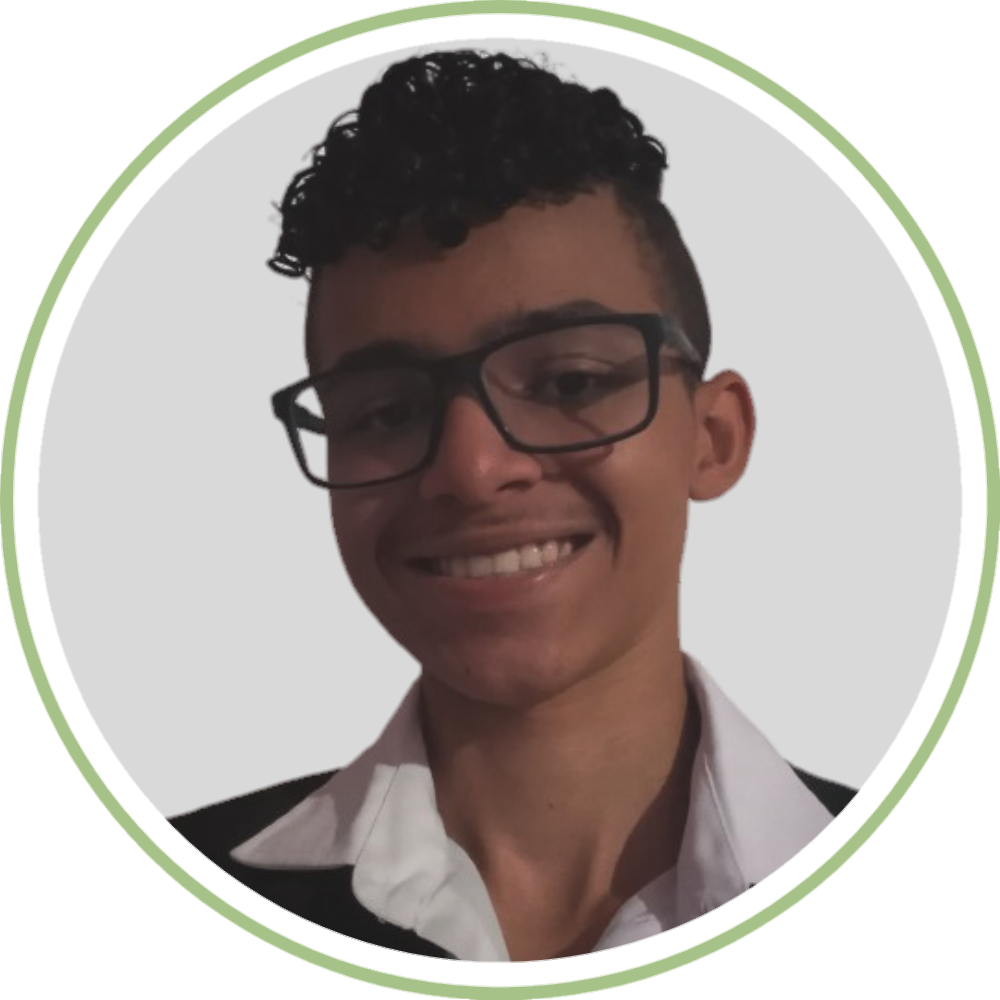
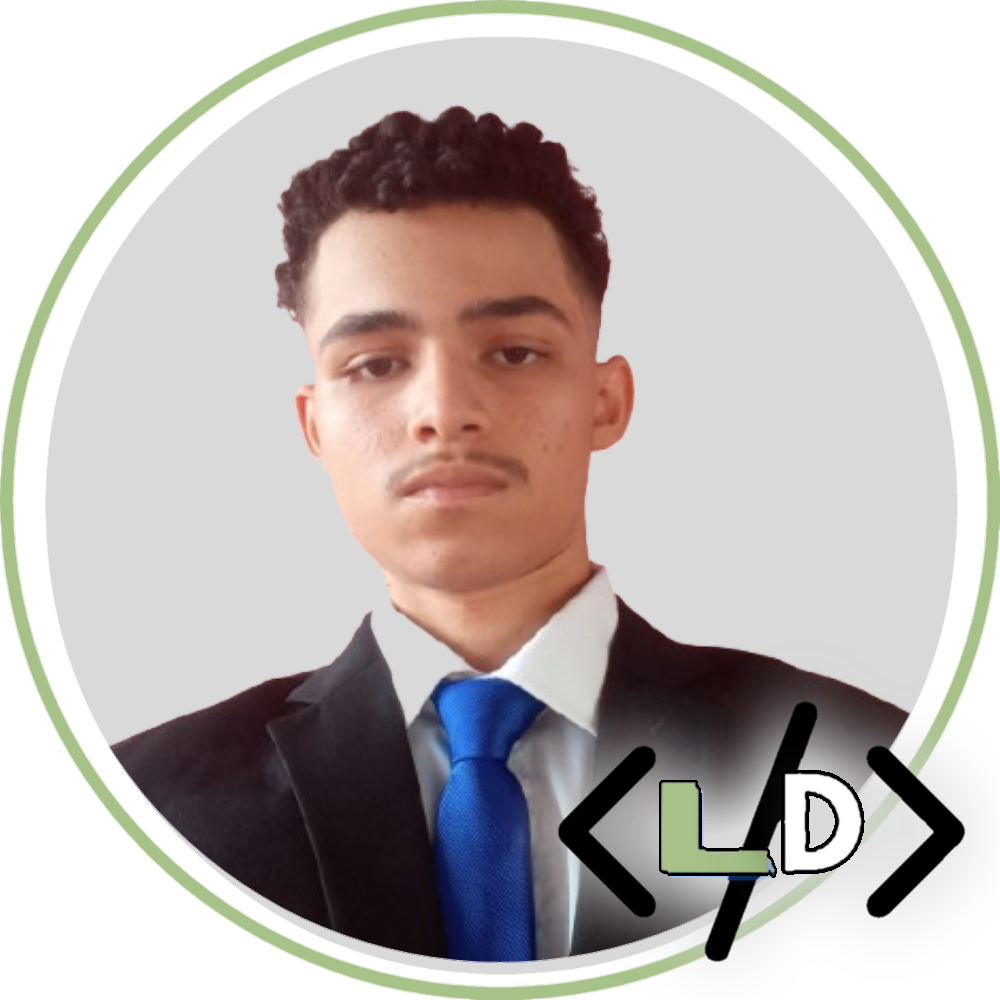
Alterando imagem da apresentação

diff --git a/index.html b/index.html
@@ -21,7 +21,7 @@
 
     <header class="header-red g-5 row m-0 flex-wrap p-5 overflow-hidden">
         <div class="header-red-img col m-0">
-            <img height="100%" width="100%" src="img/eu-1.png" alt="">
+            <img height="100%" width="100%" src="img/eu.png" alt="">
         </div>
 
         <div class="col m-0 text-white" style="font-family: Poppins, sans-serif">
